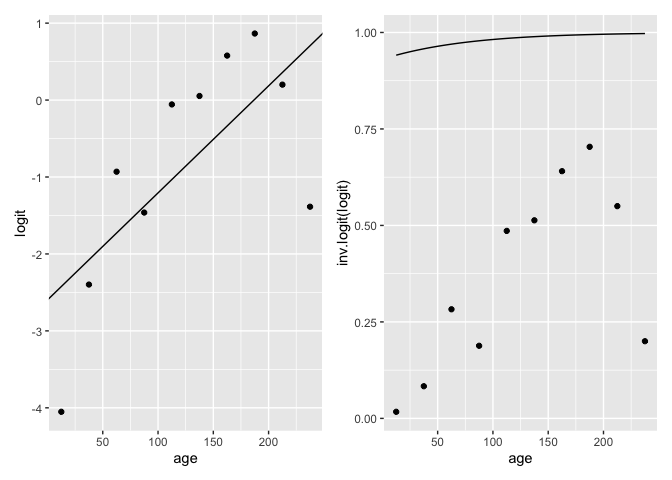
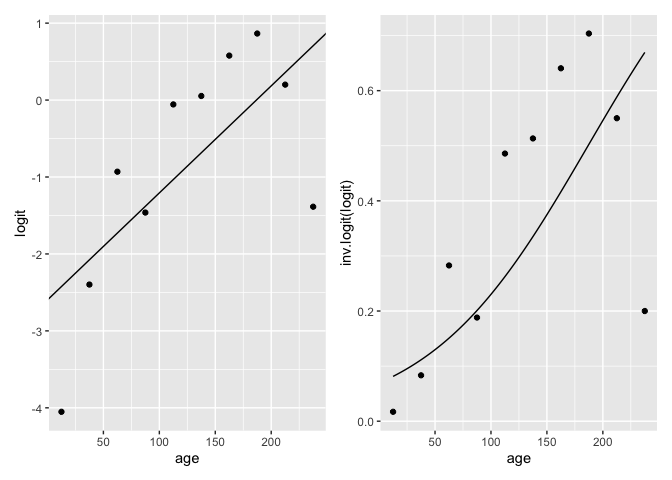
some small updates

diff --git a/README.md b/README.md
@@ -612,8 +612,7 @@ p1 <- d %>% ggplot(aes(y = logit, x = age)) + geom_point() +
   geom_abline(intercept = coef(glm_age_by_hand)["(Intercept)"],
               slope = coef(glm_age_by_hand)["age"])
 
-# @Johannes, da hab ich was falsch verstanden... 
-p2 <- d %>% ggplot(aes(y = inv.logit(logit), x = age)) + geom_point() + geom_function(fun = function (x) {exp(2.59795 + 0.01391 * x) / (1 + exp(2.59795 + 0.01391 * x))})
+p2 <- d %>% ggplot(aes(y = inv.logit(logit), x = age)) + geom_point() + geom_function(fun = function (x) {inv.logit(-2.59795 + 0.01391 * x)})
 
 p1 + p2
 ```
